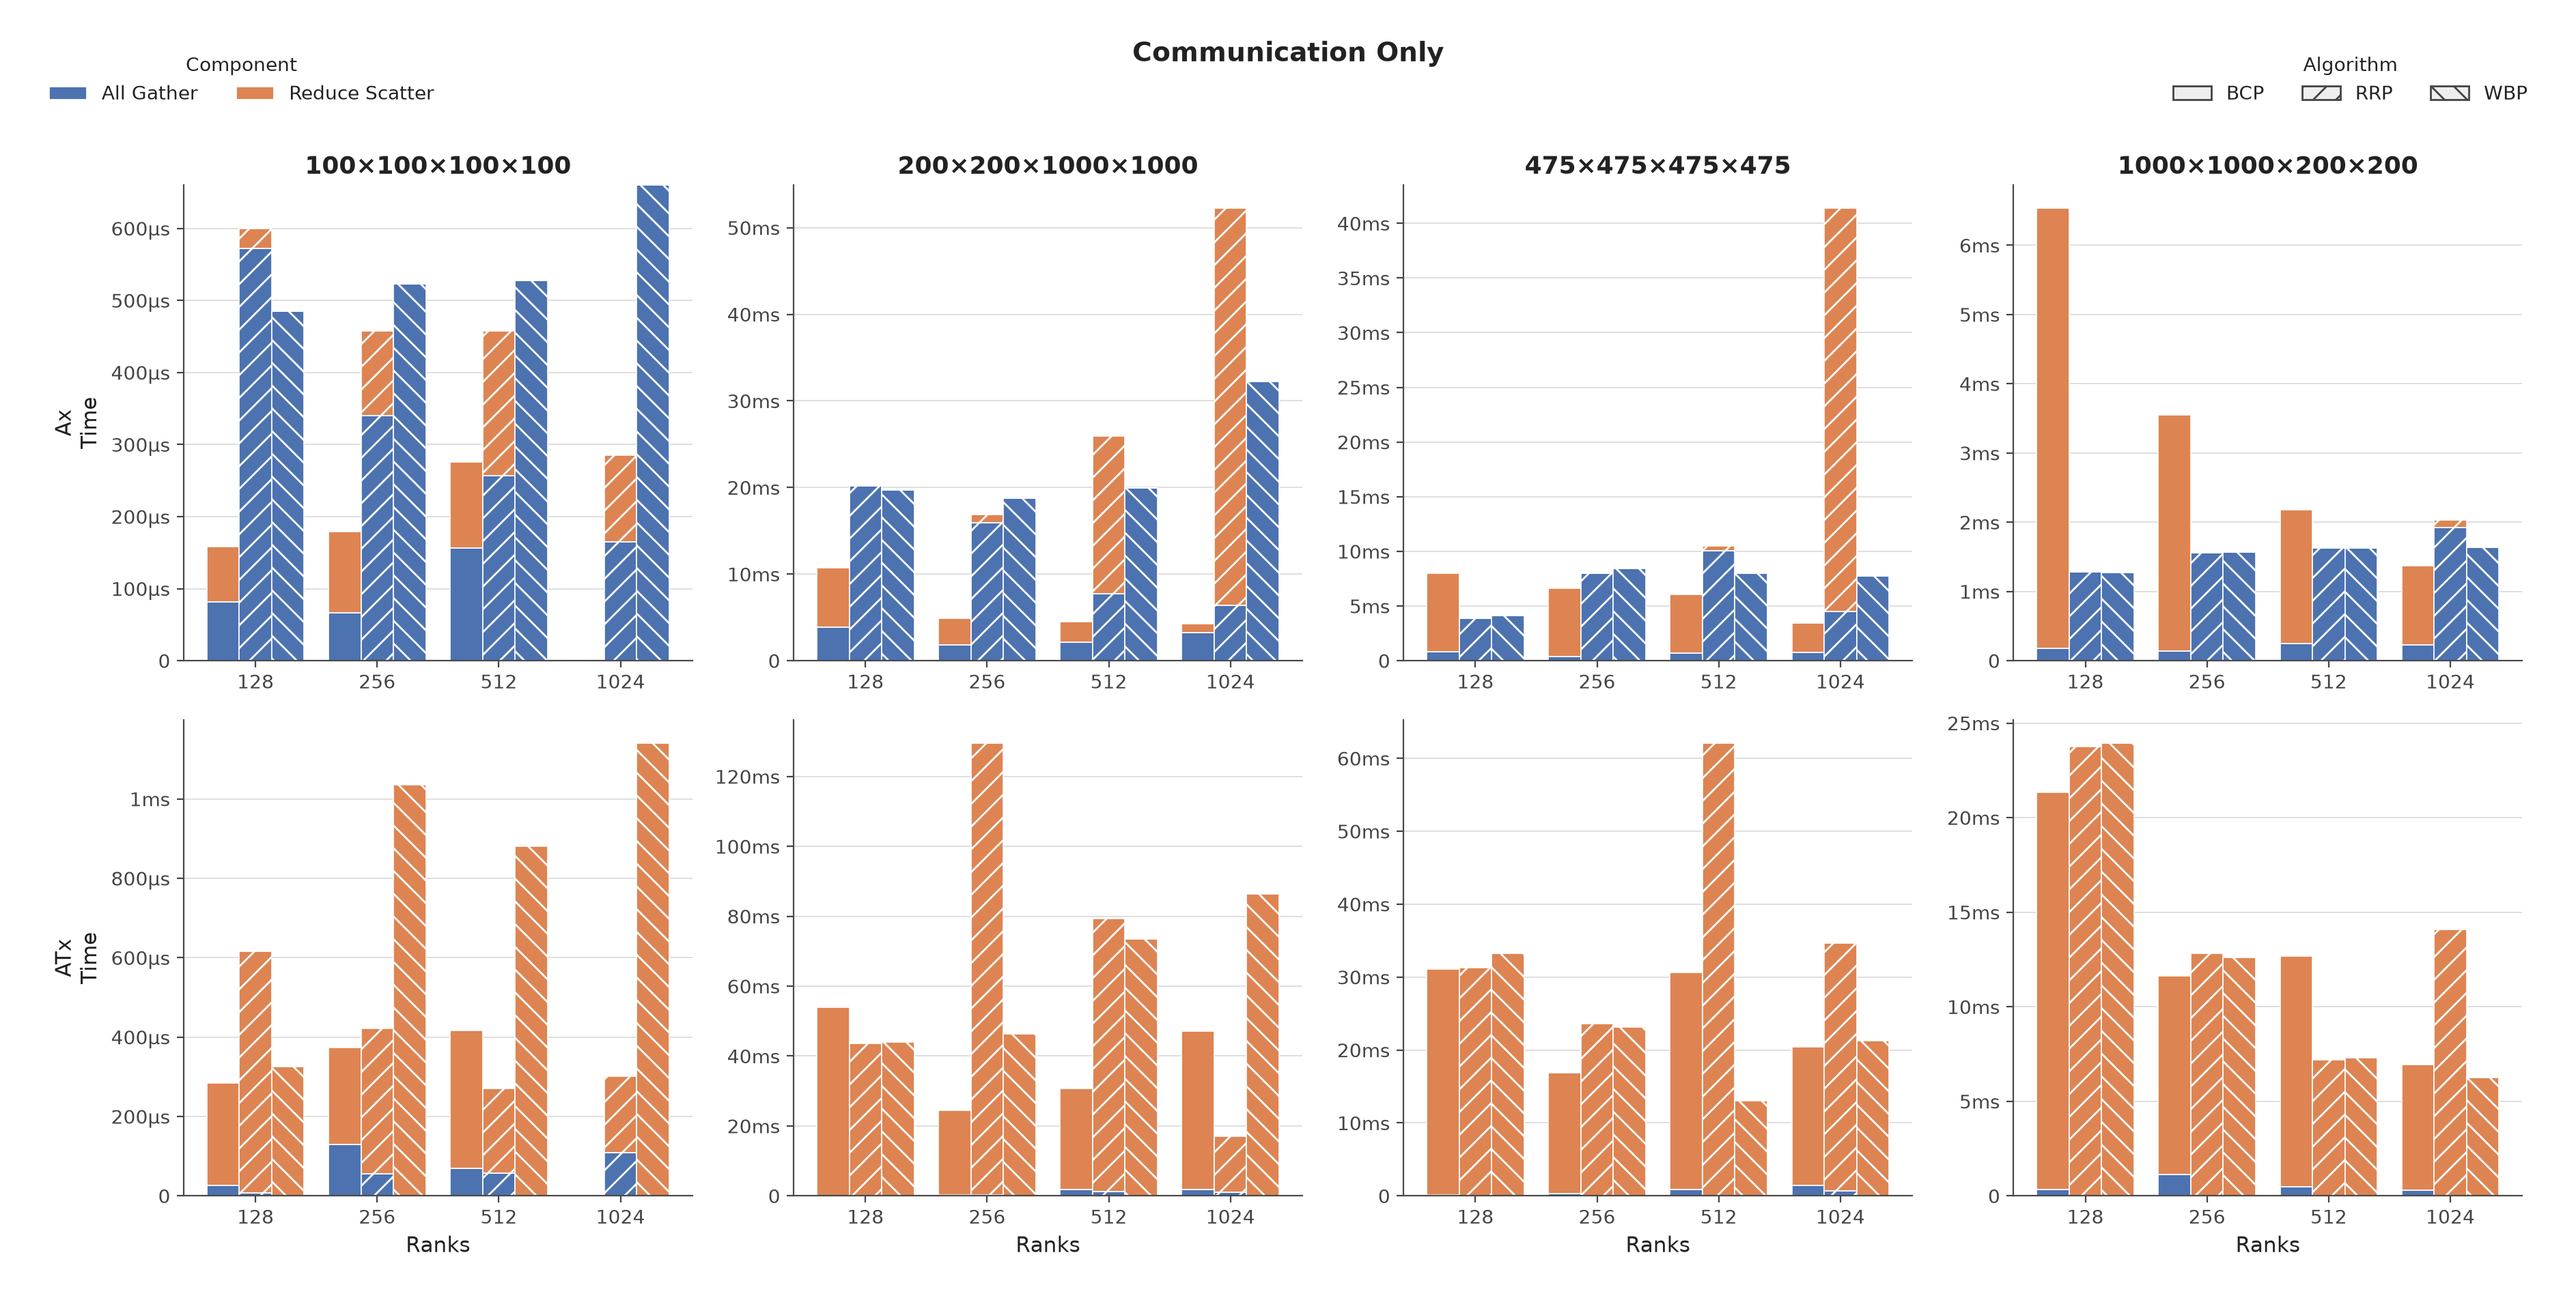
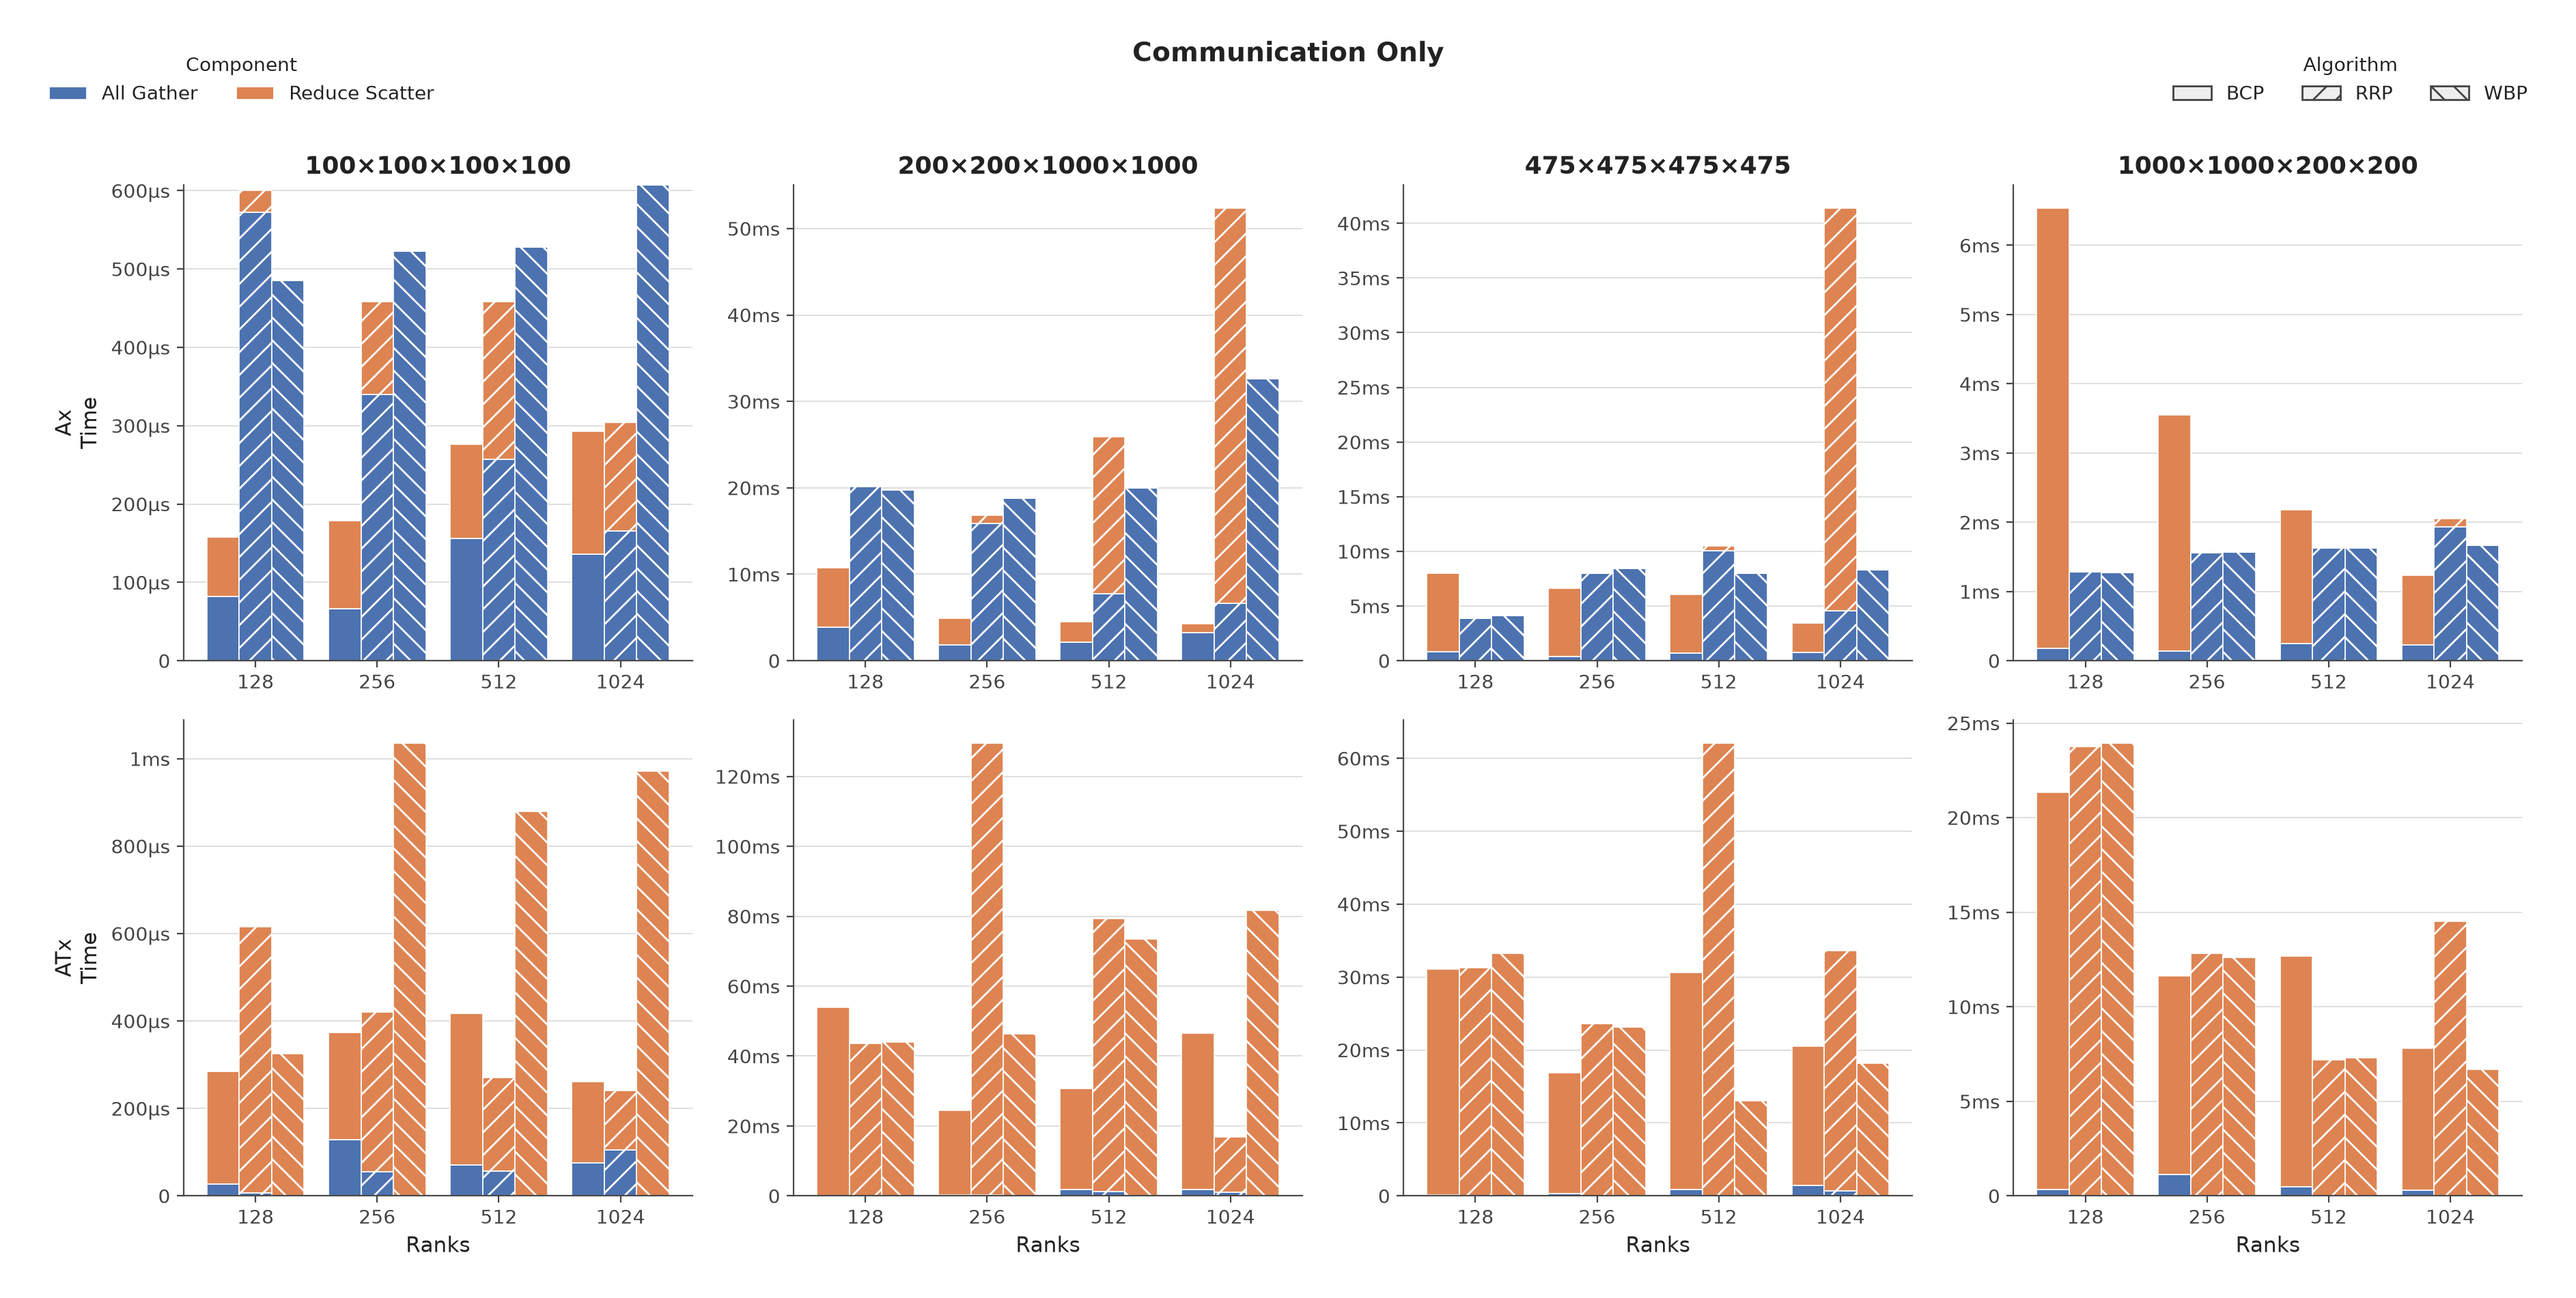
more trials

diff --git a/distr/main.cpp b/distr/main.cpp
@@ -14,7 +14,7 @@
 #include "bcp/bcp_kernel.h"
 #include "bcp/bcp_bidiag.h"
 
-#define NUM_TRIALS 10
+#define NUM_TRIALS 50
 
 int main(int argc, char **argv) {
     MPI_Init(&argc, &argv);
